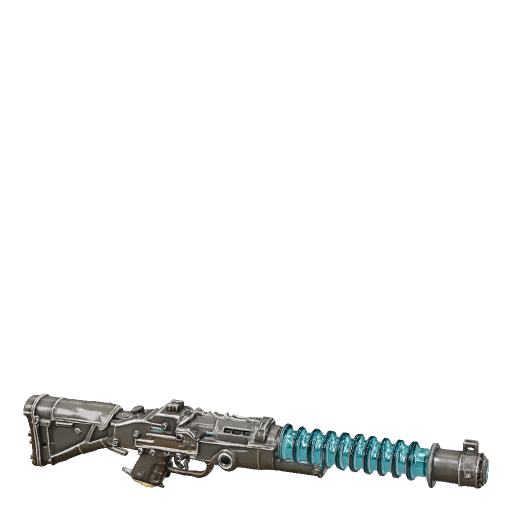
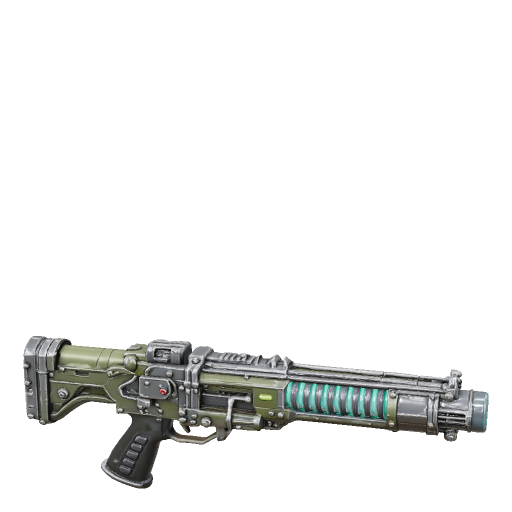
SPECTER-1: własny model 3D z Tripo zamiast zastępczego LR-7
Tekst→3D (geometria standard, tekstura HD, 30 kredytów), prep_gun3d z chwytami (tylny fx 0,24, przedni 0,62), tabela w prep_char3d_all.py.

Changed region(s): [[0.0312, 0.6562, 0.9688, 0.9688]]

diff --git a/prototype/tools/prep_char3d_all.py b/prototype/tools/prep_char3d_all.py
@@ -27,7 +27,7 @@ GUNS = {
     "hkm9":     ("hkm9",     1.15, 0.37, 0.53, 0.66, 0.45, 2, False),
     "gniew4":   ("gniew4",   1.18, 0.36, 0.45, 0.64, 0.50, 2, False),
     "sokol6":   ("sokol6",   1.15, 0.37, 0.53, 0.66, 0.45, 2, False),
-    "widmo1":   ("lr7",      1.30, 0.33, 0.47, 0.64, 0.45, 2, False),      # brak własnego modelu — zastępczo LR-7
+    "widmo1":   ("widmo1",   1.30, 0.24, 0.58, 0.62, 0.47, 2, False),
     "ciegno6":  ("ciegno6",  1.18, 0.36, 0.60, 0.62, 0.55, 2, False),
     "maczeta":  ("maczeta",  1.10, 0.18, 0.50, None, None, 1, False),
     "kilof":    ("kilof",    0.80, 0.23, 0.50, None, None, 1, True),

diff --git a/prototype/CHAR3D_SPIKE.md b/prototype/CHAR3D_SPIKE.md
@@ -52,6 +52,6 @@ Test sieciowy (host + klient, oba z 3D): zdalni gracze i bot mają model, broń 
 - Celowanie w dół wysuwa broń ku kamerze (inaczej chowa się za tułowiem); celowanie prosto w górę zasłania głowę ramieniem.
 - Oświetlenie: drugi przebieg renderu (kopie siatek na warstwie 2, shader wypisuje normalne widokowe) daje mapę normalnych, więc latarka i flara dają relief jak na sprite'ach HD (odbicie `flip_h` odwraca X normalnych w shaderze). Kosztuje ok. +50% renderu postaci; `--char3d-lq` go wyłącza.
 - Pozy to proste funkcje sin/cos, nie animacje artysty; brak przejść (blend) między animacjami; dłonie nie obejmują palcami chwytu (tylko orientacja).
-- SPECTER-1 (`widmo1`) nie ma własnego modelu — używa LR-7. Broń biała ma jedną, uproszczoną pozę zamachu.
+- Broń biała ma jedną, uproszczoną pozę zamachu. SPECTER-1 ma własny model z Tripo (`art_src/weapons/tripo/widmo1_01.glb`, tekst→3D, 30 kredytów).
 - Wrogowie nadal sprite'y HD — styl postaci gracza (3D) i wrogów trzeba będzie zestroić.
 - Włączane ustawieniem **Characters: 3D (BETA)** (`Settings.char3d`, domyślnie wyłączone) lub flagą `--char3d`; domyślnie włączymy po pomiarze na słabszym sprzęcie.
